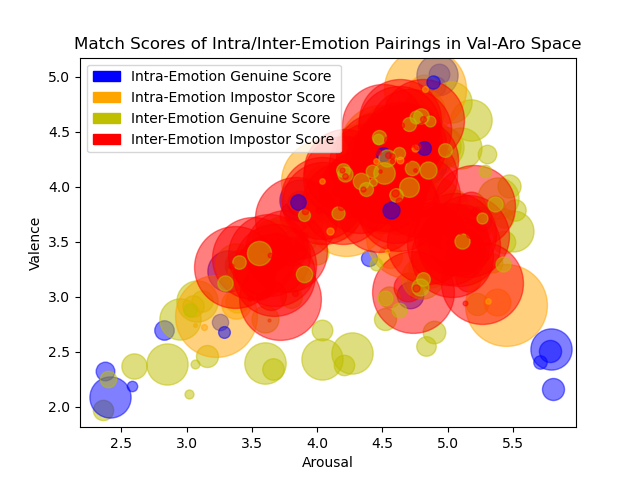
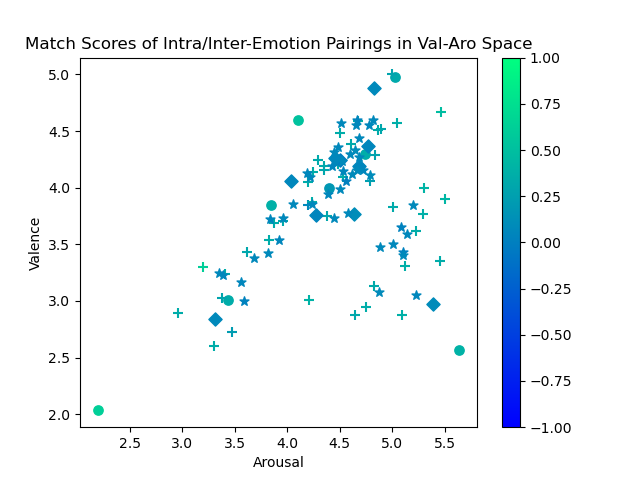
added evector ser experiment conf

diff --git a/analysis/va_emotion_analysis.py b/analysis/va_emotion_analysis.py
@@ -16,6 +16,7 @@ import pandas as pd
 import matplotlib.pyplot as plt
 Z = norm.ppf
 
+model = sys.argv[2]
 
 p = 0.01  # 1% or .01 of the lines works for val and test2.     0.5% or .005 works for test1
 if sys.argv[1] == 'test1':
@@ -24,21 +25,22 @@ else:
     p=0.01
 # keep the header, then take only 1% of lines
 # if random from [0,1] interval is greater than 0.01 the row will be skipped
-test_results = pd.read_csv('../ExperimentData/'+sys.argv[1]+'_results.csv',
-                            header=0, 
-                            skiprows=lambda i: i>0 and random.random() > p) # evector
-
-test2_results = pd.read_csv('../baseline_experiment/ExperimentData/pretrained_ecapa_vox/'+sys.argv[1]+'_results.csv',
-                            header=0, 
-                            skiprows=lambda i: i>0 and random.random() > p) # ecapa vox
-
-test3_results = pd.read_csv('../baseline_experiment/finetuned_ecapavox/ExperimentData/125epoch/'+sys.argv[1]+'_results.csv',
-                            header=0, 
-                            skiprows=lambda i: i>0 and random.random() > p) # ecapa vox+msp
-
-test4_results = pd.read_csv('../baseline_experiment/ExperimentData/pretrained_ecapa_msp/'+sys.argv[1]+'_results.csv',
-                            header=0, 
-                            skiprows=lambda i: i>0 and random.random() > p) # ecapa msp
+if model == 'evec':
+    test_results = pd.read_csv('../ExperimentData/'+sys.argv[1]+'_results.csv',
+                                header=0, 
+                                skiprows=lambda i: i>0 and random.random() > p) # evector
+elif model == 'ecapavox':
+    test2_results = pd.read_csv('../baseline_experiment/ExperimentData/pretrained_ecapa_vox/'+sys.argv[1]+'_results.csv',
+                                header=0, 
+                                skiprows=lambda i: i>0 and random.random() > p) # ecapa vox
+elif model == 'ecapavoxmsp':
+    test3_results = pd.read_csv('../baseline_experiment/finetuned_ecapavox/ExperimentData/125epoch/'+sys.argv[1]+'_results.csv',
+                                header=0, 
+                                skiprows=lambda i: i>0 and random.random() > p) # ecapa vox+msp
+elif model == 'ecapamsp':
+    test4_results = pd.read_csv('../baseline_experiment/ExperimentData/pretrained_ecapa_msp/'+sys.argv[1]+'_results.csv',
+                                header=0, 
+                                skiprows=lambda i: i>0 and random.random() > p) # ecapa msp
 
 
 emotions = ['A', 'S', 'H', 'U', 'F', 'D', 'C', 'N', 'O', 'X']
@@ -48,64 +50,75 @@ emo_map = {'A':'Angry', 'S':'Sad', 'H':'Happy', 'U':'Surprise', 'F':'Fear', 'D':
 scaling = 60
 gen_descale = 0.5
 
-models = ['evec', 'ecapavox', 'ecapavoxmsp', 'ecapamsp']
 
-for model in models:
-    if model == 'ecapavox':
-        test_results = test2_results
-    elif model =='ecapavoxmsp':
-        test_results = test3_results
-    elif model == 'ecapamsp':
-        test_results = test4_results
-            
-    # gen intra
-    for emo in emotions:
-        gen_mean_intra = test_results[test_results['SpkrIDA'] == test_results['SpkrIDB']][test_results['EmoClassA'] == emo][test_results['EmoClassB'] == emo]['MatchScore'].mean() # mean match score
-        gen_mean_intra_val =  (test_results[test_results['SpkrIDA'] == test_results['SpkrIDB']][test_results['EmoClassA'] == emo][test_results['EmoClassB'] == emo]['EmoValA'].mean() + # mean valence
-                                test_results[test_results['SpkrIDA'] == test_results['SpkrIDB']][test_results['EmoClassA'] == emo][test_results['EmoClassB'] == emo]['EmoValB'].mean()) / 2
-        gen_mean_intra_aro =  (test_results[test_results['SpkrIDA'] == test_results['SpkrIDB']][test_results['EmoClassA'] == emo][test_results['EmoClassB'] == emo]['EmoActA'].mean() + # mean activation/arousal
-                                test_results[test_results['SpkrIDA'] == test_results['SpkrIDB']][test_results['EmoClassA'] == emo][test_results['EmoClassB'] == emo]['EmoActB'].mean()) / 2
-        plt.plot(gen_mean_intra_aro, gen_mean_intra_val, ms=gen_mean_intra * scaling * gen_descale, color='b', marker='o', alpha=0.5)
+import matplotlib
 
-    # gen inter    
-    from itertools import combinations
-    emo_combos = list(combinations(emotions,2))
-    for emoA, emoB in emo_combos:
-        print('EMOTION ', emo_map[emoA], 'vs EMOTION', emo_map[emoB])
-        gen_mean_inter = test_results[test_results['SpkrIDA'] == test_results['SpkrIDB']][test_results['EmoClassA'] == emoA][test_results['EmoClassB'] == emoB]['MatchScore'].mean() # mean match score
-        gen_mean_inter_val =  (test_results[test_results['SpkrIDA'] == test_results['SpkrIDB']][test_results['EmoClassA'] == emoA][test_results['EmoClassB'] == emoB]['EmoValA'].mean() + # mean valence
-                                test_results[test_results['SpkrIDA'] == test_results['SpkrIDB']][test_results['EmoClassA'] == emoA][test_results['EmoClassB'] == emoB]['EmoValB'].mean()) / 2
-        gen_mean_inter_aro =  (test_results[test_results['SpkrIDA'] == test_results['SpkrIDB']][test_results['EmoClassA'] == emoA][test_results['EmoClassB'] == emoB]['EmoActA'].mean() + # mean activation/arousal
-                                test_results[test_results['SpkrIDA'] == test_results['SpkrIDB']][test_results['EmoClassA'] == emoA][test_results['EmoClassB'] == emoB]['EmoActB'].mean()) / 2
-        plt.plot(gen_mean_inter_aro, gen_mean_inter_val, ms=gen_mean_inter * scaling * gen_descale, color='y', marker='o', alpha=0.5)
+"""if model == 'evec':
+    normalize = matplotlib.colors.Normalize(vmin=-1, vmax=1)
+if model == 'ecapavox':
+    normalize = matplotlib.colors.Normalize(vmin=-1, vmax=1)
+if model == 'ecapavoxmsp':
+    normalize = matplotlib.colors.Normalize(vmin=-1, vmax=1)
+if model == 'ecapamsp':
+    normalize = matplotlib.colors.Normalize(vmin=-1, vmax=1)"""
+normalize = matplotlib.colors.Normalize()
+cmap = 'jet'
 
-    # imp intra
-    for emo in emotions:
-        imp_mean_intra = test_results[test_results['SpkrIDA'] != test_results['SpkrIDB']][test_results['EmoClassA'] == emo][test_results['EmoClassB'] == emo]['MatchScore'].mean() # mean match score
-        imp_mean_intra_val =  (test_results[test_results['SpkrIDA'] != test_results['SpkrIDB']][test_results['EmoClassA'] == emo][test_results['EmoClassB'] == emo]['EmoValA'].mean() + # mean valence
-                                test_results[test_results['SpkrIDA'] != test_results['SpkrIDB']][test_results['EmoClassA'] == emo][test_results['EmoClassB'] == emo]['EmoValB'].mean()) / 2
-        imp_mean_intra_aro =  (test_results[test_results['SpkrIDA'] != test_results['SpkrIDB']][test_results['EmoClassA'] == emo][test_results['EmoClassB'] == emo]['EmoActA'].mean() + # mean activation/arousal
-                                test_results[test_results['SpkrIDA'] != test_results['SpkrIDB']][test_results['EmoClassA'] == emo][test_results['EmoClassB'] == emo]['EmoActB'].mean()) / 2
-        plt.plot(imp_mean_intra_aro, imp_mean_intra_val, ms=imp_mean_intra * scaling, color='orange', marker='o', alpha=0.5)
 
-    # imp inter
-    for emoA, emoB in emo_combos:
-        imp_mean_inter = test_results[test_results['SpkrIDA'] != test_results['SpkrIDB']][test_results['EmoClassA'] == emoA][test_results['EmoClassB'] == emoB]['MatchScore'].mean() # mean match score
-        imp_mean_inter_val =  (test_results[test_results['SpkrIDA'] != test_results['SpkrIDB']][test_results['EmoClassA'] == emoA][test_results['EmoClassB'] == emoB]['EmoValA'].mean() + # mean valence
-                                test_results[test_results['SpkrIDA'] != test_results['SpkrIDB']][test_results['EmoClassA'] == emoA][test_results['EmoClassB'] == emoB]['EmoValB'].mean()) / 2
-        imp_mean_inter_aro =  (test_results[test_results['SpkrIDA'] != test_results['SpkrIDB']][test_results['EmoClassA'] == emoA][test_results['EmoClassB'] == emoB]['EmoActA'].mean() + # mean activation/arousal
-                                test_results[test_results['SpkrIDA'] != test_results['SpkrIDB']][test_results['EmoClassA'] == emoA][test_results['EmoClassB'] == emoB]['EmoActB'].mean()) / 2
-        plt.plot(imp_mean_inter_aro, imp_mean_inter_val, ms=imp_mean_inter * scaling, color='r', marker='o', alpha=0.5)
+# gen intra
+for emo in emotions:
+    gen_mean_intra = test_results[test_results['SpkrIDA'] == test_results['SpkrIDB']][test_results['EmoClassA'] == emo][test_results['EmoClassB'] == emo]['MatchScore'].mean() # mean match score
+    gen_mean_intra_val =  (test_results[test_results['SpkrIDA'] == test_results['SpkrIDB']][test_results['EmoClassA'] == emo][test_results['EmoClassB'] == emo]['EmoValA'].mean() + # mean valence
+                            test_results[test_results['SpkrIDA'] == test_results['SpkrIDB']][test_results['EmoClassA'] == emo][test_results['EmoClassB'] == emo]['EmoValB'].mean()) / 2
+    gen_mean_intra_aro =  (test_results[test_results['SpkrIDA'] == test_results['SpkrIDB']][test_results['EmoClassA'] == emo][test_results['EmoClassB'] == emo]['EmoActA'].mean() + # mean activation/arousal
+                            test_results[test_results['SpkrIDA'] == test_results['SpkrIDB']][test_results['EmoClassA'] == emo][test_results['EmoClassB'] == emo]['EmoActB'].mean()) / 2
+    #plt.plot(gen_mean_intra_aro, gen_mean_intra_val, ms=gen_mean_intra * scaling * gen_descale, color='b', marker='o', alpha=0.5)
+    plt.scatter(gen_mean_intra_aro, gen_mean_intra_val, c=gen_mean_intra, norm=normalize ,cmap=cmap,  marker='o', s=45, label='Genuine Intra-Emotion')
 
-    plt.title('Match Scores of Intra/Inter-Emotion Pairings in Val-Aro Space')
-    plt.xlabel('Arousal')
-    plt.ylabel('Valence')
-    import matplotlib.patches as mpatches
-    gen_intra = mpatches.Patch(color='b', label='Intra-Emotion Genuine Score')
-    imp_intra = mpatches.Patch(color='orange', label='Intra-Emotion Impostor Score')
-    gen_inter = mpatches.Patch(color='y', label='Inter-Emotion Genuine Score')
-    imp_inter = mpatches.Patch(color='r', label='Inter-Emotion Impostor Score')
+# gen inter    
+from itertools import combinations
+emo_combos = list(combinations(emotions,2))
+for emoA, emoB in emo_combos:
+    print('EMOTION ', emo_map[emoA], 'vs EMOTION', emo_map[emoB])
+    gen_mean_inter = test_results[test_results['SpkrIDA'] == test_results['SpkrIDB']][test_results['EmoClassA'] == emoA][test_results['EmoClassB'] == emoB]['MatchScore'].mean() # mean match score
+    gen_mean_inter_val =  (test_results[test_results['SpkrIDA'] == test_results['SpkrIDB']][test_results['EmoClassA'] == emoA][test_results['EmoClassB'] == emoB]['EmoValA'].mean() + # mean valence
+                            test_results[test_results['SpkrIDA'] == test_results['SpkrIDB']][test_results['EmoClassA'] == emoA][test_results['EmoClassB'] == emoB]['EmoValB'].mean()) / 2
+    gen_mean_inter_aro =  (test_results[test_results['SpkrIDA'] == test_results['SpkrIDB']][test_results['EmoClassA'] == emoA][test_results['EmoClassB'] == emoB]['EmoActA'].mean() + # mean activation/arousal
+                            test_results[test_results['SpkrIDA'] == test_results['SpkrIDB']][test_results['EmoClassA'] == emoA][test_results['EmoClassB'] == emoB]['EmoActB'].mean()) / 2
+    #plt.plot(gen_mean_inter_aro, gen_mean_inter_val, ms=gen_mean_inter * scaling * gen_descale, color='y', marker='h', alpha=0.5)
+    plt.scatter(gen_mean_inter_aro, gen_mean_inter_val, c=gen_mean_inter, norm=normalize, cmap=cmap,marker='+', s=45, label='Genuine Inter-Emotion')
 
-    plt.legend(handles=[gen_intra,imp_intra, gen_inter, imp_inter], loc='upper left')
+# imp intra
+for emo in emotions:
+    imp_mean_intra = test_results[test_results['SpkrIDA'] != test_results['SpkrIDB']][test_results['EmoClassA'] == emo][test_results['EmoClassB'] == emo]['MatchScore'].mean() # mean match score
+    imp_mean_intra_val =  (test_results[test_results['SpkrIDA'] != test_results['SpkrIDB']][test_results['EmoClassA'] == emo][test_results['EmoClassB'] == emo]['EmoValA'].mean() + # mean valence
+                            test_results[test_results['SpkrIDA'] != test_results['SpkrIDB']][test_results['EmoClassA'] == emo][test_results['EmoClassB'] == emo]['EmoValB'].mean()) / 2
+    imp_mean_intra_aro =  (test_results[test_results['SpkrIDA'] != test_results['SpkrIDB']][test_results['EmoClassA'] == emo][test_results['EmoClassB'] == emo]['EmoActA'].mean() + # mean activation/arousal
+                            test_results[test_results['SpkrIDA'] != test_results['SpkrIDB']][test_results['EmoClassA'] == emo][test_results['EmoClassB'] == emo]['EmoActB'].mean()) / 2
+    #plt.plot(imp_mean_intra_aro, imp_mean_intra_val, ms=imp_mean_intra * scaling, color='orange', marker='o', alpha=0.5)
+    plt.scatter(imp_mean_intra_aro, imp_mean_intra_val, c=imp_mean_intra, norm=normalize, cmap=cmap, marker='D', s=45, label='Impostor Intra-Emotion')
 
-    plt.savefig('./'+sys.argv[1]+'_'+model+'_va.png')
+# imp inter
+for emoA, emoB in emo_combos:
+    imp_mean_inter = test_results[test_results['SpkrIDA'] != test_results['SpkrIDB']][test_results['EmoClassA'] == emoA][test_results['EmoClassB'] == emoB]['MatchScore'].mean() # mean match score
+    imp_mean_inter_val =  (test_results[test_results['SpkrIDA'] != test_results['SpkrIDB']][test_results['EmoClassA'] == emoA][test_results['EmoClassB'] == emoB]['EmoValA'].mean() + # mean valence
+                            test_results[test_results['SpkrIDA'] != test_results['SpkrIDB']][test_results['EmoClassA'] == emoA][test_results['EmoClassB'] == emoB]['EmoValB'].mean()) / 2
+    imp_mean_inter_aro =  (test_results[test_results['SpkrIDA'] != test_results['SpkrIDB']][test_results['EmoClassA'] == emoA][test_results['EmoClassB'] == emoB]['EmoActA'].mean() + # mean activation/arousal
+                            test_results[test_results['SpkrIDA'] != test_results['SpkrIDB']][test_results['EmoClassA'] == emoA][test_results['EmoClassB'] == emoB]['EmoActB'].mean()) / 2
+    #plt.plot(imp_mean_inter_aro, imp_mean_inter_val, ms=imp_mean_inter * scaling, color='r', marker='o', alpha=0.5)
+    plt.scatter(imp_mean_inter_aro, imp_mean_inter_val, c=imp_mean_inter, norm=normalize, cmap=cmap,  marker='*', s=45, label='Impostor Inter-Emotion')
+
+plt.title('Match Scores of Intra/Inter-Emotion Pairings in Val-Aro Space')
+plt.xlabel('Arousal')
+plt.ylabel('Valence')
+import matplotlib.patches as mpatches
+
+
+#if model == 'evec':
+plt.colorbar()
+handles, labels = plt.gca().get_legend_handles_labels()
+by_label = dict(zip(labels, handles))
+
+plt.legend(by_label.values(), by_label.keys(), loc='upper left')
+
+plt.savefig('./'+sys.argv[1]+'_'+model+'_va.png')

diff --git a/analysis/minmaxrange.py b/analysis/minmaxrange.py
@@ -1,0 +1,65 @@
+# Author: Morgan Sandler (sandle20@msu.edu)
+# finds the range of expressibility for all models
+# syntax: e.g., python minmaxrange.py test2 > test2minmax.txt
+
+import numpy as np
+from sklearn.metrics import roc_auc_score
+from scipy import stats
+from scipy.stats import norm
+import math
+import sys
+import random
+import pandas as pd
+import matplotlib.pyplot as plt
+Z = norm.ppf
+
+
+p = 0.01  # 1% or .01 of the lines works for val and test2.     0.5% or .005 works for test1
+if sys.argv[1] == 'test1':
+    p=.005
+else:
+    p=0.01
+# keep the header, then take only 1% of lines
+# if random from [0,1] interval is greater than 0.01 the row will be skipped
+test_results = pd.read_csv('../ExperimentData/'+sys.argv[1]+'_results.csv',
+                            header=0, 
+                            skiprows=lambda i: i>0 and random.random() > p) # evector
+
+test2_results = pd.read_csv('../baseline_experiment/ExperimentData/pretrained_ecapa_vox/'+sys.argv[1]+'_results.csv',
+                            header=0, 
+                            skiprows=lambda i: i>0 and random.random() > p) # ecapa vox
+
+test3_results = pd.read_csv('../baseline_experiment/finetuned_ecapavox/ExperimentData/125epoch/'+sys.argv[1]+'_results.csv',
+                            header=0, 
+                            skiprows=lambda i: i>0 and random.random() > p) # ecapa vox+msp
+
+test4_results = pd.read_csv('../baseline_experiment/ExperimentData/pretrained_ecapa_msp/'+sys.argv[1]+'_results.csv',
+                            header=0, 
+                            skiprows=lambda i: i>0 and random.random() > p) # ecapa msp
+
+
+emotions = ['A', 'S', 'H', 'U', 'F', 'D', 'C', 'N', 'O', 'X']
+
+emo_map = {'A':'Angry', 'S':'Sad', 'H':'Happy', 'U':'Surprise', 'F':'Fear', 'D':'Disgust', 'C':'Contempt', 'N':'Neutral', 'O':'Other', 'X':'No Agreement'}
+
+models = ['evec', 'ecapavox', 'ecapavoxmsp', 'ecapamsp']
+
+for model in models:
+    if model == 'ecapavox':
+        test_results = test2_results
+    elif model =='ecapavoxmsp':
+        test_results = test3_results
+    elif model == 'ecapamsp':
+        test_results = test4_results
+    
+    print(model)
+    gen_mean = test_results[test_results['SpkrIDA'] == test_results['SpkrIDB']]['MatchScore'].mean() # mean match score
+    gen_max = test_results[test_results['SpkrIDA'] == test_results['SpkrIDB']]['MatchScore'].max() # max match score
+    gen_min = test_results[test_results['SpkrIDA'] == test_results['SpkrIDB']]['MatchScore'].min() # min match score
+    print('GENUINE mean', gen_mean, 'max', gen_max,'min', gen_min)
+    
+    imp_mean = test_results[test_results['SpkrIDA'] != test_results['SpkrIDB']]['MatchScore'].mean() # mean match score
+    imp_max = test_results[test_results['SpkrIDA'] != test_results['SpkrIDB']]['MatchScore'].max() # max match score
+    imp_min = test_results[test_results['SpkrIDA'] != test_results['SpkrIDB']]['MatchScore'].min() # min match score
+    print('IMPOSTOR mean', imp_mean, 'max', imp_max,'min', imp_min)
+    

diff --git a/analysis/ser_analysis/msp_confusion_evec.py b/analysis/ser_analysis/msp_confusion_evec.py
@@ -1,0 +1,30 @@
+# Author: Morgan Sandler (sandle20@msu.edu)
+# generate confusio for msp pod using evec embeddings
+import matplotlib.pyplot as plt
+import seaborn as sns
+import numpy as np
+
+# nicer visualization of the conf data
+conf_mat = [[  68   ,49 , 48  ,27 ,148 ,184  ,21  ,67 ],
+ [  53  ,65 , 56  ,35 ,183 ,222  ,28  ,76 ],
+  [  62 , 60 , 47  ,33 ,180 ,217 , 23 , 73 ],
+   [  16 , 43 , 37 ,  7 , 98 ,103 , 10 , 28 ],
+    [ 206 ,252 ,159 ,141,1040,1169 ,125 ,322 ],
+     [ 204 ,381 ,260 ,137,1291,1613 ,208 ,452 ],
+      [  23 , 37 , 35 , 13 ,115, 168 , 17 , 55 ],
+       [  52 ,132,  63 , 32, 293, 284 , 30 , 85 ]]
+
+ax= plt.subplot()
+for i, row in enumerate(conf_mat):
+    conf_mat[i] = np.array(row) / np.sum(row) * 100
+sns.heatmap(conf_mat, annot=True, fmt='.2f', cmap='Blues')
+plt.xlabel('Predicted')
+plt.ylabel('True')
+plt.title('MSP-Podcast Speech Emotion Recognition (SVM)')
+
+labels = ['Anger','Contempt', 'Disgust', 'Fear', 'Happy', 'Neutral', 'Sad', 'Surprise']
+ax.xaxis.set_ticklabels(labels)
+ax.yaxis.set_ticklabels(labels)
+fig = plt.gcf()
+fig.set_size_inches(10, 8)
+plt.savefig('./evec_ser.png')
